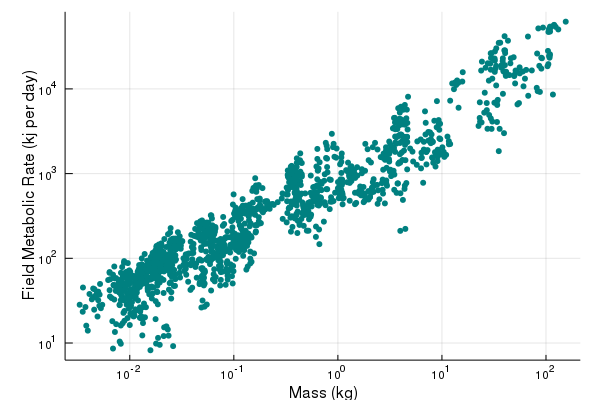
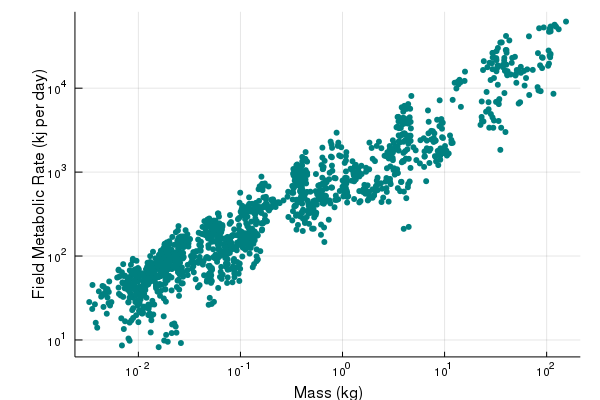
GA

diff --git a/content/capstones/genetic_algorithm.md b/content/capstones/genetic_algorithm.md
@@ -101,7 +101,33 @@ yaxis!(:log10, "Field Metabolic Rate (kj per day)")
 
 Neat! This is a log-log relationship, so we can represent this problem as:
 
-$$\text{log}_{10}(\text{FMR}) \propto m\times\text{log}_{10}(\text{M})+b$$
+$$\text{log}{10}(\text{FMR}) \propto m\times\text{log}_{10}(\text{M})+b$$
+
+To simplify the problem a little bit, we will average the values within species;
+because the relation is log-log, we will average the log of the value (as
+opposed to taking the log of the averages).
+
+````julia
+rates = by(rates, [:Genus, :Species], [:mass, :fmr] => x -> (mass=mean(log10.(x.mass)), fmr=mean(log10.(x.fmr))))
+````
+
+
+
+<table class="data-frame"><thead><tr><th></th><th>Genus</th><th>Species</th><th>mass</th><th>fmr</th></tr><tr><th></th><th>String</th><th>String</th><th>Float64</th><th>Float64</th></tr></thead><tbody><p>132 rows × 4 columns</p><tr><th>1</th><td>Diomedea</td><td>exulans</td><td>0.952967</td><td>3.35304</td></tr><tr><th>2</th><td>Arctocephalus</td><td>gazella</td><td>1.53131</td><td>4.32877</td></tr><tr><th>3</th><td>Sula</td><td>sula</td><td>0.0263231</td><td>3.07421</td></tr><tr><th>4</th><td>Macrotus</td><td>californicus</td><td>-1.88828</td><td>1.33622</td></tr><tr><th>5</th><td>Microtus</td><td>pennsylvanicus</td><td>-1.44936</td><td>1.9947</td></tr><tr><th>6</th><td>Tarsipes</td><td>rostratus</td><td>-2.04591</td><td>1.43081</td></tr><tr><th>7</th><td>Muscicapa</td><td>striata</td><td>-1.84164</td><td>1.71799</td></tr><tr><th>8</th><td>Parus</td><td>major</td><td>-1.74771</td><td>1.98197</td></tr><tr><th>9</th><td>Turdus</td><td>merula</td><td>-1.01773</td><td>2.256</td></tr><tr><th>10</th><td>Hirundo</td><td>tahitica</td><td>-1.85214</td><td>1.86032</td></tr><tr><th>11</th><td>Merops</td><td>viridis</td><td>-1.4707</td><td>1.88447</td></tr><tr><th>12</th><td>Sciurus</td><td>carolinensis</td><td>-0.234011</td><td>2.74503</td></tr><tr><th>13</th><td>Tachycineta</td><td>bicolor</td><td>-1.72656</td><td>2.02483</td></tr><tr><th>14</th><td>Uria</td><td>aalge</td><td>-0.0270878</td><td>3.24895</td></tr><tr><th>15</th><td>Poecile</td><td>cincta</td><td>-1.89461</td><td>1.70534</td></tr><tr><th>16</th><td>Poecile</td><td>montanus</td><td>-1.94412</td><td>1.63366</td></tr><tr><th>17</th><td>Myrmecobius</td><td>fasciatus</td><td>-0.317247</td><td>2.41855</td></tr><tr><th>18</th><td>Phocarctos</td><td>hookeri</td><td>2.05169</td><td>4.72295</td></tr><tr><th>19</th><td>Thalassarche</td><td>chrysostoma</td><td>0.563635</td><td>3.37201</td></tr><tr><th>20</th><td>Arctocephalus</td><td>galapagoensis</td><td>1.55174</td><td>3.61429</td></tr><tr><th>21</th><td>Eudyptula</td><td>minor</td><td>0.0364043</td><td>2.90196</td></tr><tr><th>22</th><td>Meleagris</td><td>gallopavo</td><td>0.645128</td><td>3.18936</td></tr><tr><th>23</th><td>Aplodontia</td><td>rufa</td><td>-0.145026</td><td>3.15469</td></tr><tr><th>24</th><td>Pygoscelis</td><td>adeliae</td><td>0.603158</td><td>3.59675</td></tr><tr><th>25</th><td>Lanius</td><td>excubitor</td><td>-1.20904</td><td>2.04835</td></tr><tr><th>26</th><td>Lontra</td><td>canadensis</td><td>0.892097</td><td>3.65534</td></tr><tr><th>27</th><td>Lepilemur</td><td>ruficaudatus</td><td>-0.149247</td><td>2.63522</td></tr><tr><th>28</th><td>Troglodytes</td><td>aedon</td><td>-2.01739</td><td>1.4347</td></tr><tr><th>29</th><td>Haliaeetus</td><td>leucocephalus</td><td>0.602276</td><td>3.37909</td></tr><tr><th>30</th><td>Phascolarctos</td><td>cinereus</td><td>0.908989</td><td>3.21824</td></tr><tr><th>31</th><td>Cinclus</td><td>cinclus</td><td>-1.20855</td><td>2.29673</td></tr><tr><th>32</th><td>Lasiorhinus</td><td>krefftii</td><td>1.44413</td><td>3.5773</td></tr><tr><th>33</th><td>Lasiorhinus</td><td>latifrons</td><td>1.38097</td><td>3.70967</td></tr><tr><th>34</th><td>Vombatus</td><td>ursinus</td><td>1.51603</td><td>3.78164</td></tr><tr><th>35</th><td>Carollia</td><td>perspicillata</td><td>-1.71068</td><td>1.88646</td></tr><tr><th>36</th><td>Petauroides</td><td>volans</td><td>0.00753945</td><td>2.72367</td></tr><tr><th>37</th><td>Fulmarus</td><td>glacialis</td><td>-0.126472</td><td>3.10663</td></tr><tr><th>38</th><td>Rissa</td><td>tridactyla</td><td>-0.420975</td><td>2.92362</td></tr><tr><th>39</th><td>Alle</td><td>alle</td><td>-0.784829</td><td>2.83927</td></tr><tr><th>40</th><td>Vulpes</td><td>cana</td><td>0.0</td><td>2.82607</td></tr><tr><th>41</th><td>Syconycteris</td><td>australis</td><td>-1.76277</td><td>1.88305</td></tr><tr><th>42</th><td>Martes</td><td>americana</td><td>-0.0171296</td><td>2.90197</td></tr><tr><th>43</th><td>Callipepla</td><td>gambelii</td><td>-0.844064</td><td>1.95387</td></tr><tr><th>44</th><td>Rangifer</td><td>tarandus</td><td>1.78472</td><td>4.19983</td></tr><tr><th>45</th><td>Tachyglossus</td><td>aculeatus</td><td>0.492571</td><td>2.79445</td></tr><tr><th>46</th><td>Arvicola</td><td>amphibius</td><td>-1.08329</td><td>2.13</td></tr><tr><th>47</th><td>Cervus</td><td>elaphus</td><td>2.03136</td><td>4.40097</td></tr><tr><th>48</th><td>Ptychoramphus</td><td>aleuticus</td><td>-0.760601</td><td>2.61139</td></tr><tr><th>49</th><td>Falco</td><td>tinnunculus</td><td>-0.72375</td><td>2.54676</td></tr><tr><th>50</th><td>Phalacrocorax</td><td>carbo</td><td>0.324477</td><td>3.31983</td></tr><tr><th>51</th><td>Sterna</td><td>hirundo</td><td>-0.887319</td><td>2.54728</td></tr><tr><th>52</th><td>Aptenodytes</td><td>patagonicus</td><td>1.12795</td><td>3.92474</td></tr><tr><th>53</th><td>Cavia</td><td>magna</td><td>-0.311605</td><td>2.61032</td></tr><tr><th>54</th><td>Phyllostomus</td><td>hastatus</td><td>-1.1178</td><td>2.1106</td></tr><tr><th>55</th><td>Cepphus</td><td>grylle</td><td>-0.42255</td><td>2.9141</td></tr><tr><th>56</th><td>Oenanthe</td><td>oenanthe</td><td>-1.6138</td><td>1.9516</td></tr><tr><th>57</th><td>Ficedula</td><td>hypoleuca</td><td>-1.87544</td><td>1.82567</td></tr><tr><th>58</th><td>Lophophanes</td><td>cristatus</td><td>-1.95587</td><td>1.60564</td></tr><tr><th>59</th><td>Periparus</td><td>ater</td><td>-2.02337</td><td>1.67074</td></tr><tr><th>60</th><td>Ficedula</td><td>albicollis</td><td>-1.79852</td><td>1.89268</td></tr><tr><th>61</th><td>Arenaria</td><td>interpres</td><td>-0.969918</td><td>2.54153</td></tr><tr><th>62</th><td>Calidris</td><td>canutus</td><td>-0.847682</td><td>2.52832</td></tr><tr><th>63</th><td>Petrogale</td><td>lateralis</td><td>0.343409</td><td>2.78533</td></tr><tr><th>64</th><td>Alouatta</td><td>palliata</td><td>0.789046</td><td>3.3366</td></tr><tr><th>65</th><td>Bradypus</td><td>variegatus</td><td>0.618408</td><td>2.79541</td></tr><tr><th>66</th><td>Petaurus</td><td>breviceps</td><td>-0.923658</td><td>2.1996</td></tr><tr><th>67</th><td>Spheniscus</td><td>demersus</td><td>0.498371</td><td>3.28511</td></tr><tr><th>68</th><td>Sminthopsis</td><td>crassicaudata</td><td>-1.77992</td><td>1.81188</td></tr><tr><th>69</th><td>Macropus</td><td>eugenii</td><td>0.665677</td><td>3.0799</td></tr><tr><th>70</th><td>Setonix</td><td>brachyurus</td><td>0.269277</td><td>2.71932</td></tr><tr><th>71</th><td>Macropus</td><td>giganteus</td><td>1.60763</td><td>3.88978</td></tr><tr><th>72</th><td>Odocoileus</td><td>hemionus</td><td>1.64843</td><td>4.41821</td></tr><tr><th>73</th><td>Thylogale</td><td>billardierii</td><td>0.697758</td><td>3.1524</td></tr><tr><th>74</th><td>Isoodon</td><td>obesulus</td><td>0.0732698</td><td>2.78976</td></tr><tr><th>75</th><td>Macronectes</td><td>giganteus</td><td>0.592092</td><td>3.62064</td></tr><tr><th>76</th><td>Oceanites</td><td>oceanicus</td><td>-1.37071</td><td>2.13575</td></tr><tr><th>77</th><td>Sorex</td><td>araneus</td><td>-2.0876</td><td>1.7285</td></tr><tr><th>78</th><td>Lemmus</td><td>sibiricus</td><td>-1.26134</td><td>2.30164</td></tr><tr><th>79</th><td>Calidris</td><td>alba</td><td>-1.23165</td><td>2.35721</td></tr><tr><th>80</th><td>Calidris</td><td>alpina</td><td>-1.28936</td><td>2.33587</td></tr><tr><th>81</th><td>Calidris</td><td>fuscicollis</td><td>-1.40894</td><td>2.27784</td></tr><tr><th>82</th><td>Calidris</td><td>maritima</td><td>-1.10237</td><td>2.48813</td></tr><tr><th>83</th><td>Calidris</td><td>minuta</td><td>-1.56839</td><td>2.18926</td></tr><tr><th>84</th><td>Charadrius</td><td>hiaticula</td><td>-1.24803</td><td>2.33927</td></tr><tr><th>85</th><td>Stercorarius</td><td>longicaudus</td><td>-0.477163</td><td>2.80128</td></tr><tr><th>86</th><td>Pongo</td><td>pygmaeus</td><td>1.73488</td><td>3.82576</td></tr><tr><th>87</th><td>Archilochus</td><td>alexandri</td><td>-2.43933</td><td>1.49593</td></tr><tr><th>88</th><td>Lampornis</td><td>clemenciae</td><td>-2.0576</td><td>1.90898</td></tr><tr><th>89</th><td>Calypte</td><td>anna</td><td>-2.35079</td><td>1.40107</td></tr><tr><th>90</th><td>Peromyscus</td><td>leucopus</td><td>-1.72836</td><td>1.54374</td></tr><tr><th>91</th><td>Tamias</td><td>striatus</td><td>-1.0171</td><td>2.15396</td></tr><tr><th>92</th><td>Lama</td><td>glama</td><td>1.67816</td><td>4.14529</td></tr><tr><th>93</th><td>Microcebus</td><td>murinus</td><td>-1.22088</td><td>1.93983</td></tr><tr><th>94</th><td>Eremitalpa</td><td>granti</td><td>-1.68881</td><td>1.08193</td></tr><tr><th>95</th><td>Lepus</td><td>americanus</td><td>0.129663</td><td>2.99048</td></tr><tr><th>96</th><td>Eulemur</td><td>fulvus</td><td>0.244134</td><td>2.76885</td></tr><tr><th>97</th><td>Lemur</td><td>catta</td><td>0.351411</td><td>2.7824</td></tr><tr><th>98</th><td>Pachyptila</td><td>desolata</td><td>-0.829592</td><td>2.58797</td></tr><tr><th>99</th><td>Lagopus</td><td>leucura</td><td>-0.437492</td><td>2.50162</td></tr><tr><th>100</th><td>Phalaenoptilus</td><td>nuttallii</td><td>-1.29706</td><td>1.70634</td></tr><tr><th>101</th><td>Haematopus</td><td>moquini</td><td>-0.789592</td><td>2.40994</td></tr><tr><th>102</th><td>Progne</td><td>subis</td><td>-1.31028</td><td>2.18747</td></tr><tr><th>103</th><td>Sterna</td><td>paradisaea</td><td>-0.995787</td><td>2.50212</td></tr><tr><th>104</th><td>Carollia</td><td>brevicauda</td><td>-2.06255</td><td>1.65596</td></tr><tr><th>105</th><td>Glossophaga</td><td>commissarisi</td><td>-1.74031</td><td>1.69231</td></tr><tr><th>106</th><td>Anoura</td><td>caudifer</td><td>-1.94013</td><td>1.71861</td></tr><tr><th>107</th><td>Aepyprymnus</td><td>rufescens</td><td>0.462762</td><td>3.1657</td></tr><tr><th>108</th><td>Phainopepla</td><td>nitens</td><td>-1.63958</td><td>1.91648</td></tr><tr><th>109</th><td>Estrilda</td><td>troglodytes</td><td>-2.17289</td><td>1.73803</td></tr><tr><th>110</th><td>Cormobates</td><td>leucophaea</td><td>-1.62525</td><td>1.91062</td></tr><tr><th>111</th><td>Malurus</td><td>cyaneus</td><td>-2.08355</td><td>1.53313</td></tr><tr><th>112</th><td>Chalybura</td><td>urochrysia</td><td>-2.14388</td><td>1.76283</td></tr><tr><th>113</th><td>Thalurania</td><td>colombica</td><td>-2.30908</td><td>1.57307</td></tr><tr><th>114</th><td>Melanerpes</td><td>formicivorus</td><td>-1.08525</td><td>2.28282</td></tr><tr><th>115</th><td>Acanthorhynchus</td><td>tenuirostris</td><td>-2.01175</td><td>1.72053</td></tr><tr><th>116</th><td>Phylidonyris</td><td>novaehollandiae</td><td>-1.76596</td><td>1.85745</td></tr><tr><th>117</th><td>Phylidonyris</td><td>pyrrhopterus</td><td>-1.83565</td><td>1.88024</td></tr><tr><th>118</th><td>Strix</td><td>occidentalis</td><td>-0.238742</td><td>2.34967</td></tr><tr><th>119</th><td>Hirundo</td><td>rustica</td><td>-1.68825</td><td>2.08131</td></tr><tr><th>120</th><td>Passerculus</td><td>sandwichensis</td><td>-1.73181</td><td>1.88349</td></tr><tr><th>121</th><td>Nectarinia</td><td>violacea</td><td>-2.02082</td><td>1.81744</td></tr><tr><th>122</th><td>Philetairus</td><td>socius</td><td>-1.5948</td><td>1.67894</td></tr><tr><th>123</th><td>Barnardius</td><td>zonarius</td><td>-0.842978</td><td>2.2647</td></tr><tr><th>124</th><td>Eolophus</td><td>roseicapilla</td><td>-0.508404</td><td>2.5507</td></tr><tr><th>125</th><td>Melopsittacus</td><td>undulatus</td><td>-1.55492</td><td>1.76729</td></tr><tr><th>126</th><td>Neophema</td><td>petrophila</td><td>-1.20204</td><td>2.02572</td></tr><tr><th>127</th><td>Struthio</td><td>camelus</td><td>1.78542</td><td>4.21025</td></tr><tr><th>128</th><td>Geophaps</td><td>plumifera</td><td>-1.06363</td><td>1.85031</td></tr><tr><th>129</th><td>Proteles</td><td>cristata</td><td>0.905457</td><td>3.35049</td></tr><tr><th>130</th><td>Oryx</td><td>leucoryx</td><td>1.91921</td><td>4.1819</td></tr><tr><th>131</th><td>Vulpes</td><td>rueppellii</td><td>0.240031</td><td>2.98299</td></tr><tr><th>132</th><td>Vulpes</td><td>vulpes</td><td>0.628186</td><td>3.37876</td></tr></tbody></table>
+
+
+
+We can look at the simplified data:
+
+````julia
+scatter(10.0.^rates[:mass], 10.0.^rates[:fmr], c=:teal, leg=false, msc=:transparent)
+xaxis!(:log10, "Mass (kg)")
+yaxis!(:log10, "Field Metabolic Rate (kj per day)")
+````
+
+
+{{< figure src="../figures/genetic_algorithm_6_1.png" title="Same data, but a little bit less points. In addition, aggregating by species doesn't increase the impact that well sampled species will have on the regression output."  >}}
+
 
 {{< callout information >}}
 In this capstone, we will try to write a very general code for genetic
@@ -144,7 +170,7 @@ zero(::Type{Genome}) = Genome(0.0, 0.0)
 
 
 ````
-zero (generic function with 39 methods)
+zero (generic function with 37 methods)
 ````
 
 
@@ -162,12 +188,12 @@ population[1:5]
 
 
 ````
-5-element Array{Main.WeaveSandBox4.Genome,1}:
- Main.WeaveSandBox4.Genome(0.0, 0.0)
- Main.WeaveSandBox4.Genome(0.0, 0.0)
- Main.WeaveSandBox4.Genome(0.0, 0.0)
- Main.WeaveSandBox4.Genome(0.0, 0.0)
- Main.WeaveSandBox4.Genome(0.0, 0.0)
+5-element Array{Main.WeaveSandBox1.Genome,1}:
+ Main.WeaveSandBox1.Genome(0.0, 0.0)
+ Main.WeaveSandBox1.Genome(0.0, 0.0)
+ Main.WeaveSandBox1.Genome(0.0, 0.0)
+ Main.WeaveSandBox1.Genome(0.0, 0.0)
+ Main.WeaveSandBox1.Genome(0.0, 0.0)
 ````
 
 
@@ -185,7 +211,7 @@ population[1:5]
 
 
 ````
-5-element Array{Main.WeaveSandBox4.Genome,1}:
+5-element Array{Main.WeaveSandBox1.Genome,1}:
  ŷ = 0.0×x + 0.0
  ŷ = 0.0×x + 0.0
  ŷ = 0.0×x + 0.0
@@ -227,14 +253,17 @@ things. First, we need to define a `fitness` function, which, given an input
 (here, a `Genome`), will return its "score". Second, we need to define a
 `mutation!` function, which will *modify* a genome.
 
-The fitness function can be defined as follows:
+The fitness function can be defined as follows (note that we have already taken
+the log10 of the mass and FMR earlier):
 
 ````julia
-const log10fmr = log10.(rates[:fmr])
-const log10M = log10.(rates[:mass])
+const log10fmr = rates[:fmr]
+const log10M = rates[:mass]
+
+ŷ(g::Genome, x::Vector{Float64})=  g.m .* x .+ g.b
 
 function fmr_fitness(g::Genome)
-  errors = log10fmr .- (g.m .* log10M .+ g.b)
+  errors = log10fmr .- ŷ(g, log10M)
   sum_of_errors_sq = sum(errors.^2.0)/length(log10fmr)
   return 1.0/sum_of_errors_sq
 end
@@ -264,7 +293,7 @@ fmr_fitness(zero(Genome))
 
 
 ````
-0.15111166121860647
+0.1406618826939854
 ````
 
 
@@ -309,7 +338,7 @@ initial_genome
 
 
 ````
-ŷ = 0.197×x + 0.479
+ŷ = 0.198×x + 0.497
 ````
 
 
@@ -324,7 +353,7 @@ very_gradual_change! = normal_error(1e-3, 1e-3)
 
 
 ````
-(::getfield(Main.WeaveSandBox4, Symbol("#f#2")){Float64,Float64}) (generic 
+(::getfield(Main.WeaveSandBox1, Symbol("#f#4")){Float64,Float64}) (generic 
 function with 1 method)
 ````
 
@@ -336,69 +365,61 @@ We have all of the pieces to apply our genetic algorithm. Before starting, it is
 always a good idea to try and eyeball the parameters. Judging from the plot we
 made early in the lesson, the intercept is probably just around 3, so we can
 probably draw it from $\mathcal{N}(\mu=3, \sigma=1)$; the slope seems to be
-close to one, so we can get it from $\mathcal{N}(\mu=1, \sigma=0.5)$:
+close to one but a little bit lower, so we can get it from
+$\mathcal{N}(\mu=0.75, \sigma=0.2)$:
 
 ````julia
-population = [Genome(rand(Normal(1,0.5)), rand(Normal(3,1))) for i in 1:500]
+population = [Genome(rand(Normal(0.75,0.2)), rand(Normal(3,1))) for i in 1:500]
 ````
 
 
 ````
-500-element Array{Main.WeaveSandBox4.Genome,1}:
- ŷ = 0.671×x + 3.108
- ŷ = 0.902×x + 3.798
- ŷ = 0.699×x + 1.814
- ŷ = 1.308×x + 2.887
- ŷ = 0.718×x + 3.859
- ŷ = 1.461×x + 1.261
- ŷ = 1.454×x + 2.292
- ŷ = 1.189×x + 3.367
- ŷ = 1.555×x + 3.658
- ŷ = 1.506×x + 2.815
+500-element Array{Main.WeaveSandBox1.Genome,1}:
+ ŷ = 0.654×x + 5.04 
+ ŷ = 0.926×x + 2.521
+ ŷ = 0.674×x + 2.588
+ ŷ = 1.01×x + 2.206 
+ ŷ = 0.911×x + 3.044
+ ŷ = 0.59×x + 3.062 
+ ŷ = 0.441×x + 1.722
+ ŷ = 0.614×x + 2.138
+ ŷ = 0.444×x + 3.014
+ ŷ = 0.651×x + 4.029
  ⋮                   
- ŷ = 0.751×x + 1.344
- ŷ = 0.755×x + 2.189
- ŷ = 1.605×x + 3.723
- ŷ = 0.0×x + 3.646  
- ŷ = 0.854×x + 4.072
- ŷ = 1.583×x + 2.864
- ŷ = 1.096×x + 3.696
- ŷ = 1.18×x + 2.988 
- ŷ = 0.555×x + 3.215
+ ŷ = 0.946×x + 3.148
+ ŷ = 0.367×x + 2.479
+ ŷ = 0.771×x + 0.801
+ ŷ = 0.933×x + 1.402
+ ŷ = 0.926×x + 2.527
+ ŷ = 0.532×x + 1.521
+ ŷ = 0.815×x + 2.494
+ ŷ = 1.156×x + 2.888
+ ŷ = 0.781×x + 1.401
 ````
 
 
 
 ````julia
-GA!(population, fmr_fitness, very_gradual_change!; generations=5000)
+GA!(population, fmr_fitness, very_gradual_change!; generations=10000)
 ````
 
 
+
+
+
+**_TODO_**
 
 ````julia
-function ŷ(g::Genome, x::Vector{Float64})
-  return g.m .* x .+ g.b
-end
-````
-
-
-````
-ŷ (generic function with 1 method)
-````
-
-
-
-````julia
-scatter(rates[:mass], rates[:fmr], c=:teal, leg=false, msc=:transparent)
-pred = collect(LinRange(minimum(rates[:mass]), maximum(rates[:mass]), 100))
+scatter(10.0.^rates[:mass], 10.0.^rates[:fmr], c=:teal, leg=false, msc=:transparent)
+pred = collect(LinRange(10.0.^minimum(rates[:mass]), 10.0.^maximum(rates[:mass]), 100))
 mostfit = fmr_fitness.(population) |> findmax |> last
-plot!(pred, 10.0.^ŷ(population[mostfit], log10.(pred)))
+plot!(pred, 10.0.^ŷ(population[mostfit], log10.(pred)), c=:orange, lw=2, ls=:dash)
 xaxis!(:log10, "Mass (kg)")
 yaxis!(:log10, "Field Metabolic Rate (kj per day)")
 ````
 
 
-{{< figure src="../figures/genetic_algorithm_18_1.png" title="Relationship between field metabolic rate and mass - this is a neat log-log relationship, and so linear regression will give us the exponent."  >}}
+{{< figure src="../figures/genetic_algorithm_19_1.png" title="Relationship between field metabolic rate and mass - this is a neat log-log relationship, and so linear regression will give us the exponent."  >}}
 
 
-We can also look at the equation for the most fit genome: ŷ = 0.605×x + 3.041.
+We can also look at the equation for the most fit genome: ŷ = 0.685×x + 2.939.
